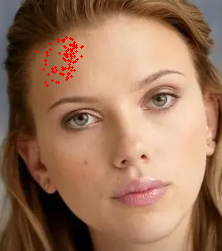
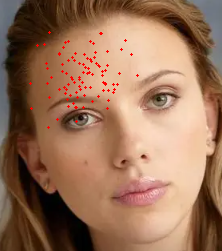
updated 2022.06.22

diff --git a/source/facial_landmark/train.py b/source/facial_landmark/train.py
@@ -53,14 +53,11 @@ def plot_predictions(model):
         rgb_image = cv2.imread(file)
         height, width = rgb_image.shape[:2]
         
-        # landmark = pred2 * input_shape[0]
-        # landmark[0::2] = landmark[0::2] * width / input_shape[0]
-        # landmark[1::2] = landmark[1::2] * height / input_shape[0]
-        # landmark = landmark.reshape(-1, 2)
+        landmark = pred2 * input_shape[0]
+        landmark[0::2] = landmark[0::2] * width / input_shape[0]
+        landmark[1::2] = landmark[1::2] * height / input_shape[0]
+        landmark = landmark.reshape(-1, 2)
         
-        landmark = pred2.reshape(-1, 2)
-        landmark = landmark * input_shape[0]
-
         get_overlay(idx, rgb_image, landmark)
 
 
@@ -74,10 +71,10 @@ class DisplayCallback(tf.keras.callbacks.Callback):
 
 
 def adjust_lr(epoch, lr):
-    if epoch < 3:
+    if epoch < 50:
         return lr
     else:
-        return lr * 0.93
+        return lr * 0.1
 
 
 if __name__ == "__main__":   
@@ -93,6 +90,7 @@ if __name__ == "__main__":
     optimizer = tf.keras.optimizers.Adam(learning_rate=lr)
     callback = [DisplayCallback(),
                 tf.keras.callbacks.LearningRateScheduler(adjust_lr),
+                tf.keras.callbacks.EarlyStopping(monitor="val_loss", patience=10),
                 tf.keras.callbacks.ModelCheckpoint("/data/Models/facial_landmark/best.h5", monitor="val_loss", verbose=1, save_best_only=True, save_weights_only=True)]
 
     with strategy.scope():
